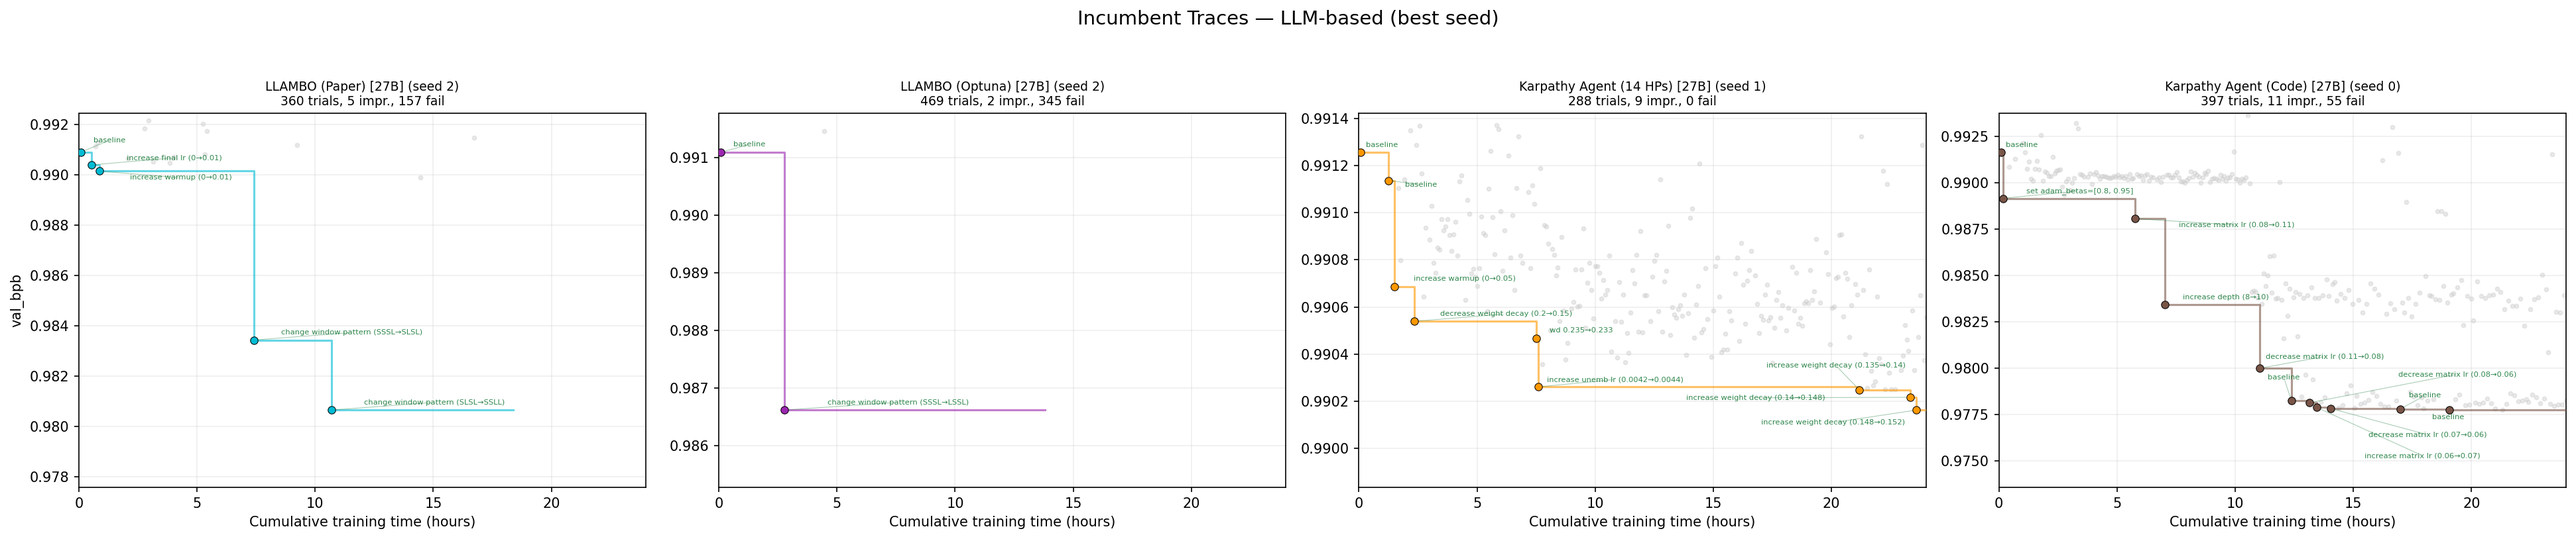
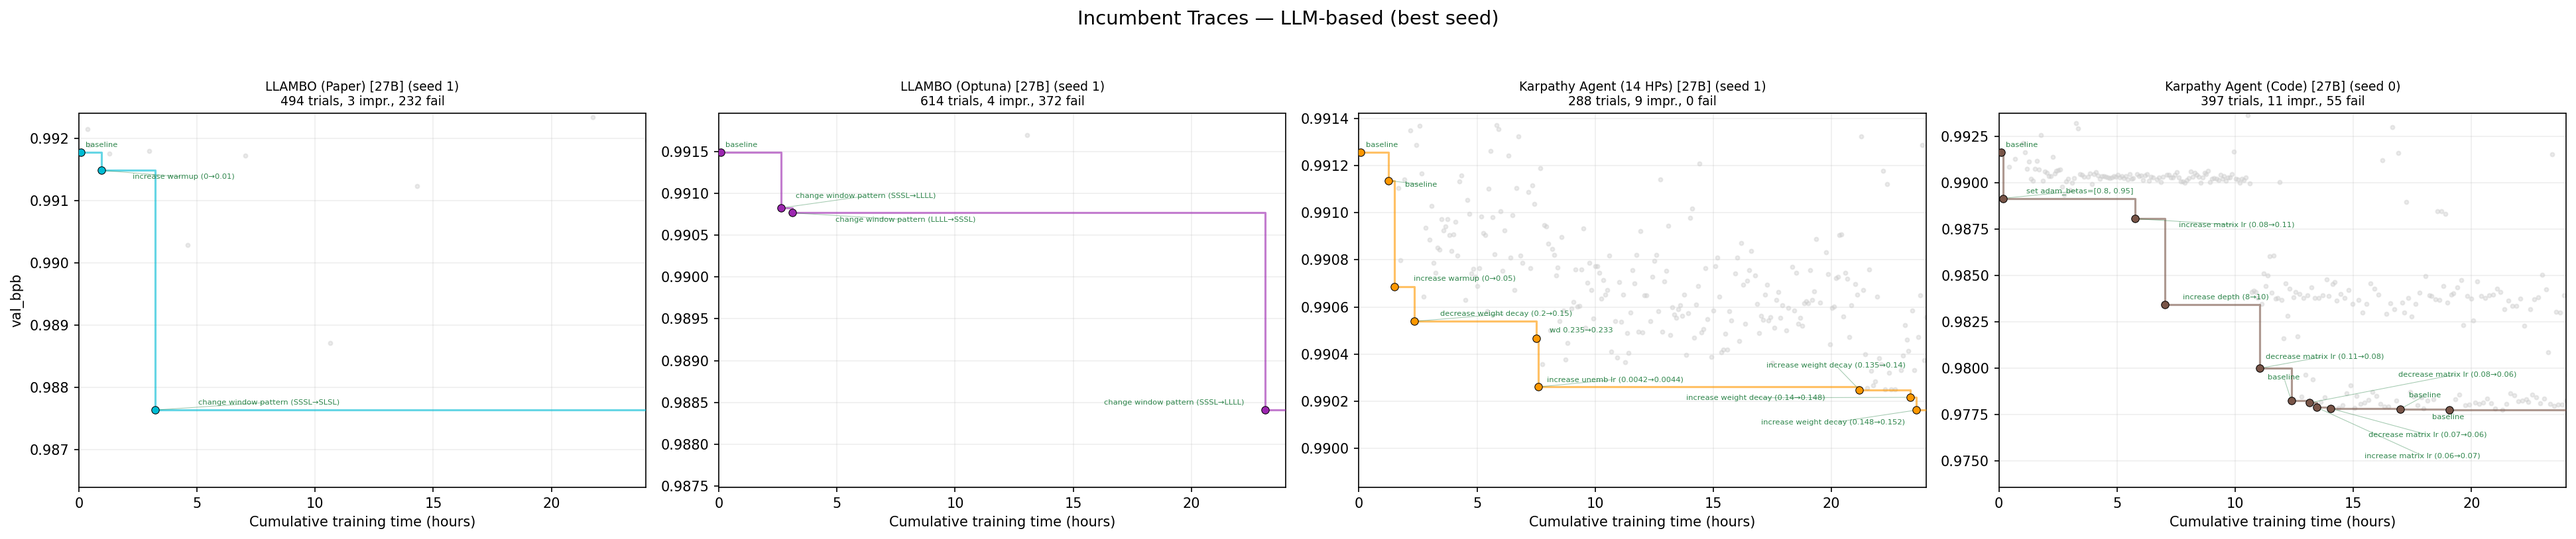
Fix best_seed to only use completed seeds (95% budget)

diff --git a/scripts/plot_convergence.py b/scripts/plot_convergence.py
@@ -682,13 +682,18 @@ def plot_progress_subplot_trials(ax, bench_dir, backend_name, display_name, colo
 
 
 def _best_seed(bench_dir: Path, backend_name: str) -> int:
-    """Find the seed with the best final val_bpb for a backend."""
+    """Find the seed with the best final val_bpb for a backend (only completed seeds)."""
+    BUDGET_SECONDS = 86400
+    MIN_BUDGET_FRAC = 0.95
     best_val, best_seed = float("inf"), 0
     for seed in range(10):
         jsonl = bench_dir / backend_name / f"seed_{seed}" / "trials.jsonl"
         if not jsonl.exists():
             continue
         trials = load_trials(jsonl)
+        total_train_s = sum(t.get("wall_time_seconds") or 0.0 for t in trials)
+        if total_train_s < BUDGET_SECONDS * MIN_BUDGET_FRAC:
+            continue
         for t in trials:
             if t.get("success") and t.get("val_bpb") is not None:
                 if t["val_bpb"] < best_val:
